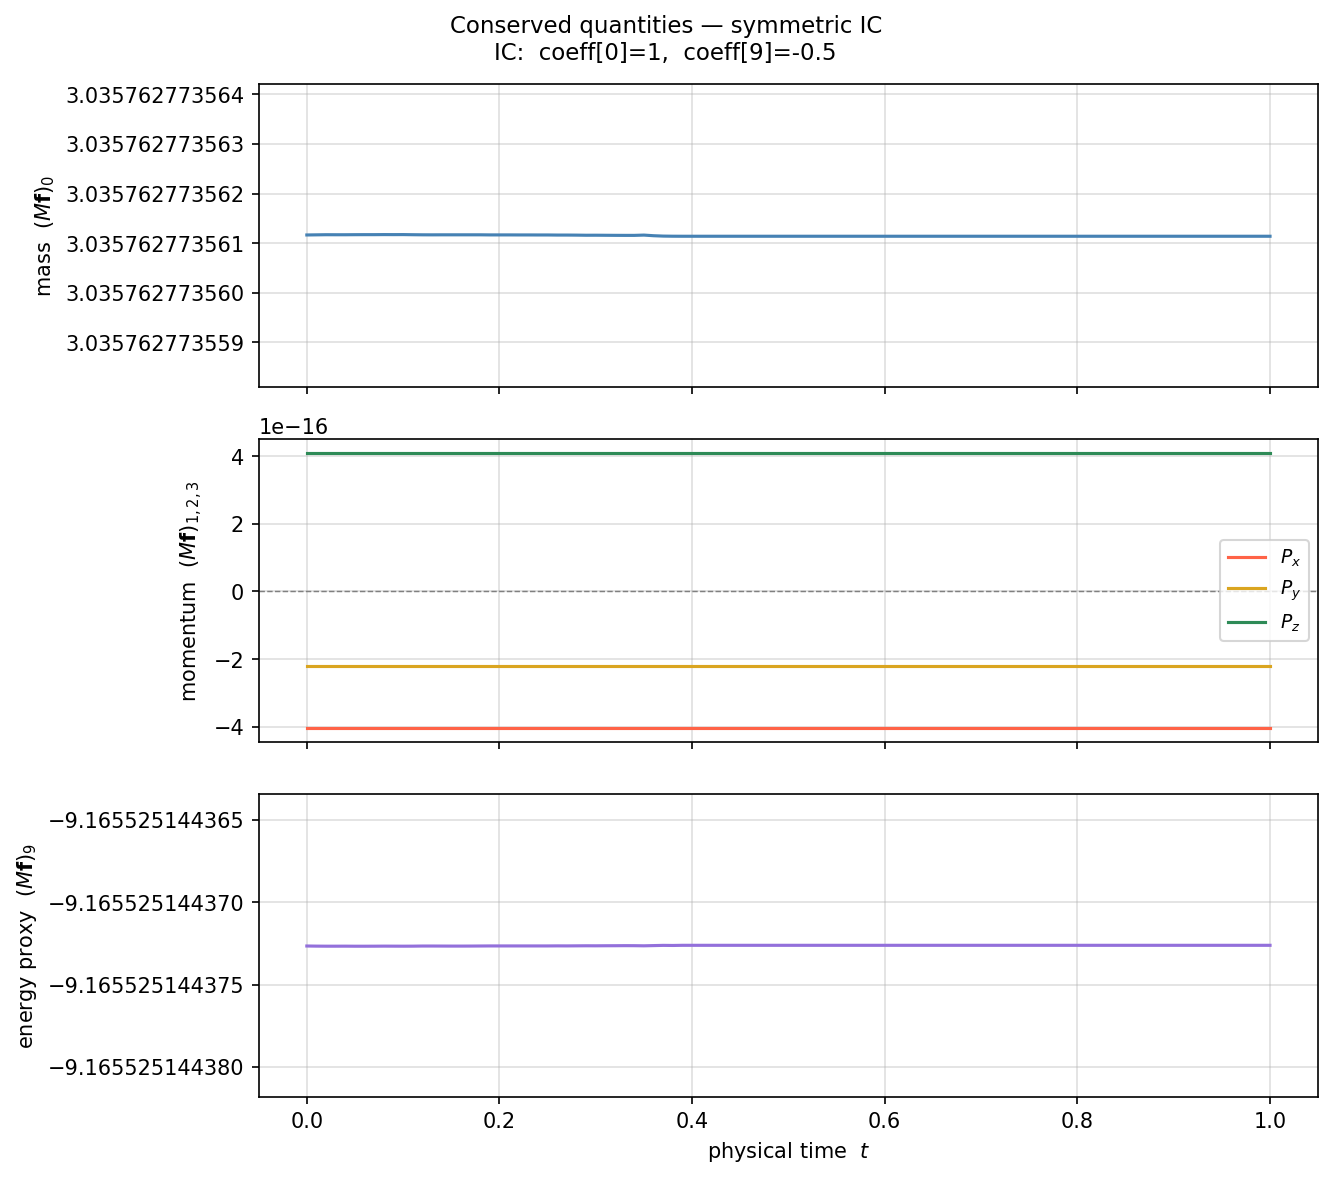
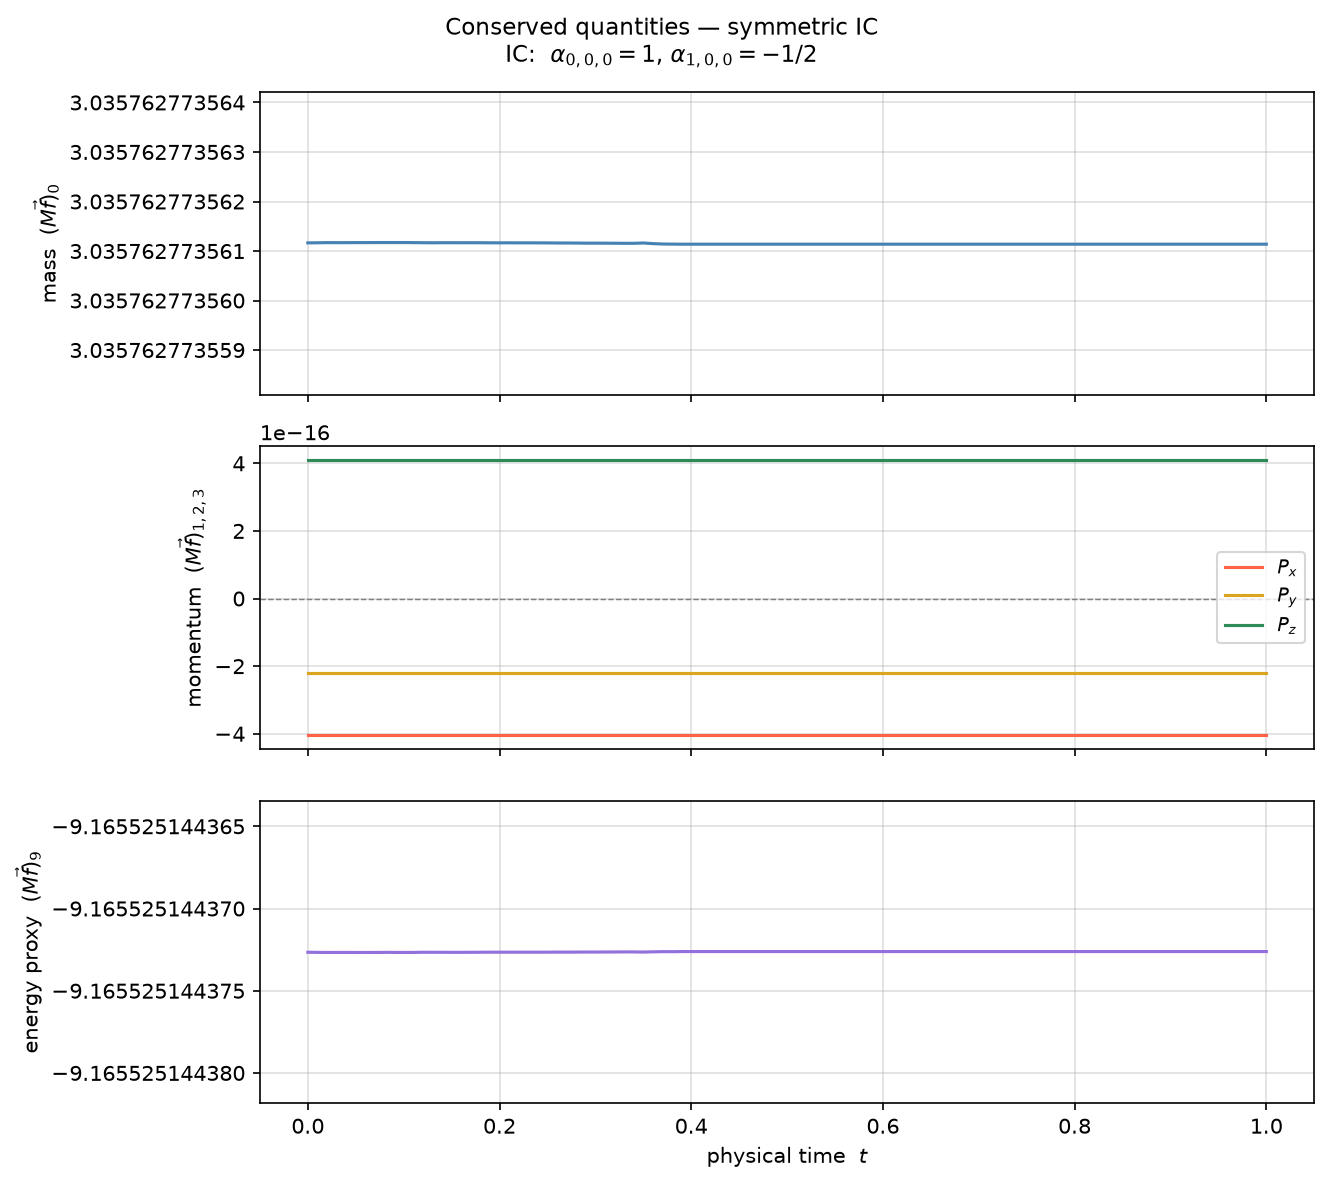
plot notation: p_x/p_z axes, alpha IC labels, vec{f} conservation; symmetric relaxation figures regenerated

diff --git a/plot/plot_conservation.py b/plot/plot_conservation.py
@@ -8,12 +8,12 @@ import os
 # ── flags ─────────────────────────────────────────────────────────────────────
 # experiment: 'symmetric' | 'asymmetric' | 'zero_momentum'
 # Must match the CSV produced by time_evol/conservation_check.py.
-experiment = 'zero_momentum'
+experiment = 'symmetric'
 
 _IC_LABELS = {
-    'symmetric':     'coeff[0]=1,  coeff[9]=-0.5',
-    'asymmetric':    'coeff[0]=1,  coeff[9]=-0.5,  coeff[2]=0.1',
-    'zero_momentum': 'coeff[0]=1,  coeff[9]=-0.5,  coeff[2]=0.1,  coeff[11]=0.0632',
+    'symmetric':     r'$\alpha_{0,0,0}=1$, $\alpha_{1,0,0}=-1/2$',
+    'asymmetric':    r'$\alpha_{0,0,0}=1$, $\alpha_{1,0,0}=-1/2$, $\alpha_{0,1,0}=0.1$',
+    'zero_momentum': r'$\alpha_{0,0,0}=1$, $\alpha_{1,0,0}=-1/2$, $\alpha_{0,1,0}=0.1$, $\alpha_{1,1,0}\approx 0.0632$',
 }
 
 save = True
@@ -34,7 +34,7 @@ fig, axes = plt.subplots(3, 1, figsize=(9, 8), sharex=True)
 
 # ── mass ──────────────────────────────────────────────────────────────────────
 axes[0].plot(t, mass, color='steelblue', linewidth=1.5)
-axes[0].set_ylabel('mass  $(M\\mathbf{f})_0$')
+axes[0].set_ylabel('mass  $(M\\vec{f})_0$')
 axes[0].grid(True, alpha=0.4)
 axes[0].ticklabel_format(useOffset=False)
 
@@ -43,14 +43,14 @@ axes[1].plot(t, px, color='tomato',    linewidth=1.5, label='$P_x$')
 axes[1].plot(t, py, color='goldenrod', linewidth=1.5, label='$P_y$')
 axes[1].plot(t, pz, color='seagreen',  linewidth=1.5, label='$P_z$')
 axes[1].axhline(0, color='gray', linewidth=0.7, linestyle='--')
-axes[1].set_ylabel('momentum  $(M\\mathbf{f})_{1,2,3}$')
+axes[1].set_ylabel('momentum  $(M\\vec{f})_{1,2,3}$')
 axes[1].legend(fontsize=9, loc='right')
 axes[1].grid(True, alpha=0.4)
 axes[1].ticklabel_format(useOffset=False)
 
 # ── energy ────────────────────────────────────────────────────────────────────
 axes[2].plot(t, energy, color='mediumpurple', linewidth=1.5)
-axes[2].set_ylabel('energy proxy  $(M\\mathbf{f})_9$')
+axes[2].set_ylabel('energy proxy  $(M\\vec{f})_9$')
 axes[2].set_xlabel('physical time  $t$')
 axes[2].grid(True, alpha=0.4)
 axes[2].ticklabel_format(useOffset=False)

diff --git a/plot/plot2d.py b/plot/plot2d.py
@@ -10,12 +10,12 @@ from naming import load_with_meta
 # ── flags ─────────────────────────────────────────────────────────────────────
 # experiment: 'symmetric' | 'asymmetric' | 'zero_momentum'
 # Set this to match ic_mode in time_evol/time_ev.py before running.
-experiment = 'zero_momentum'
+experiment = 'symmetric'
 
 _IC_LABELS = {
-    'symmetric':     'coeff[0]=1,  coeff[9]=-0.5',
-    'asymmetric':    'coeff[0]=1,  coeff[9]=-0.5,  coeff[2]=0.1',
-    'zero_momentum': 'coeff[0]=1,  coeff[9]=-0.5,  coeff[2]=0.1,  coeff[11]=0.0632',
+    'symmetric':     r'$\alpha_{0,0,0}=1$, $\alpha_{1,0,0}=-1/2$',
+    'asymmetric':    r'$\alpha_{0,0,0}=1$, $\alpha_{1,0,0}=-1/2$, $\alpha_{0,1,0}=0.1$',
+    'zero_momentum': r'$\alpha_{0,0,0}=1$, $\alpha_{1,0,0}=-1/2$, $\alpha_{0,1,0}=0.1$, $\alpha_{1,1,0}\approx 0.0632$',
 }
 _FIG_NAMES = {
     'symmetric':     './figures/relaxation_2d_xz_symmetric.png',
@@ -104,15 +104,15 @@ for ax, F, label in zip(axes_flat, panels, labels):
     im = ax.pcolormesh(xv, zv, F, cmap=cmap, vmin=vmin, vmax=vmax, shading='auto')
     ax.set_aspect('equal')
     ax.set_title(label, fontsize=10)
-    ax.set_xlabel('x')
-    ax.set_ylabel('z')
+    ax.set_xlabel(r'$p_x$')
+    ax.set_ylabel(r'$p_z$')
     ax.axhline(0, color='white', linewidth=0.5, linestyle='--', alpha=0.4)
     ax.axvline(0, color='white', linewidth=0.5, linestyle='--', alpha=0.4)
 
 for ax in axes_flat[len(steps):]:
     ax.set_visible(False)
 
-fig.colorbar(im, ax=axes_flat[len(steps) - 1], shrink=0.8, label='f(x, 0, z)')
+fig.colorbar(im, ax=axes_flat[len(steps) - 1], shrink=0.8, label=r'$f$')
 title = f'Non-relativistic relaxation — x-z plane  ($\\Delta t = {tau}$)'
 if ic_label:
     title += f'\nIC:  {ic_label}'

diff --git a/plot/plot.py b/plot/plot.py
@@ -11,12 +11,12 @@ from naming import load_with_meta
 # ── flags ─────────────────────────────────────────────────────────────────────
 # experiment: 'symmetric' | 'asymmetric' | 'zero_momentum'
 # Set this to match ic_mode in time_evol/time_ev.py before running.
-experiment = 'zero_momentum'
+experiment = 'symmetric'
 
 _IC_LABELS = {
-    'symmetric':     'coeff[0]=1,  coeff[9]=-0.5',
-    'asymmetric':    'coeff[0]=1,  coeff[9]=-0.5,  coeff[2]=0.1',
-    'zero_momentum': 'coeff[0]=1,  coeff[9]=-0.5,  coeff[2]=0.1,  coeff[11]=0.0632',
+    'symmetric':     r'$\alpha_{0,0,0}=1$, $\alpha_{1,0,0}=-1/2$',
+    'asymmetric':    r'$\alpha_{0,0,0}=1$, $\alpha_{1,0,0}=-1/2$, $\alpha_{0,1,0}=0.1$',
+    'zero_momentum': r'$\alpha_{0,0,0}=1$, $\alpha_{1,0,0}=-1/2$, $\alpha_{0,1,0}=0.1$, $\alpha_{1,1,0}\approx 0.0632$',
 }
 _FIG_NAMES_OVERLAY = {
     'symmetric':     './figures/relaxation_symmetric_overlay.png',
@@ -96,7 +96,8 @@ if mode == 'single':
     plt.plot(x, f, marker='o', markersize=3)
     plt.axhline(0, color='gray', linewidth=0.7, linestyle='--')
     plt.title(plt_name)
-    plt.xlabel('x')
+    plt.xlabel(r'$p_x$')
+    plt.ylabel(r'$f(p)$')
     plt.grid(True, alpha=0.4)
     if show: plt.show()
     if save:
@@ -141,7 +142,8 @@ elif mode == 'overlay':
         ax.plot(x, f, color=color, label=step_label(step))
 
     ax.axhline(0, color='gray', linewidth=0.7, linestyle='--')
-    ax.set_xlabel('x')
+    ax.set_xlabel(r'$p_x$')
+    ax.set_ylabel(r'$f(p)$')
     ax.legend(fontsize=9, loc='upper right')
     ax.grid(True, alpha=0.4)
     ax.set_title(f'Non-relativistic relaxation  ($\\Delta t = {tau}$)')

diff --git a/time_evol/time_ev.py b/time_evol/time_ev.py
@@ -4,7 +4,6 @@ import numpy as np
 import pickle
 from bilinear import landau
 from bilinear import update
-from lemou_ic import lemou_coefficients
 # reach the shared naming helper + quadrature-order constants in ../src
 sys.path.insert(0, '../src')
 from naming import operator_tag, mass_tag, load_with_meta
@@ -60,12 +59,14 @@ assert mass_meta['n'] == n, f"mass matrix n={mass_meta['n']} != operator n={n}"
 #   lemou         -- Villani/Lemou exact benchmark (Maxwellian molecules, isotropic);
 #                    f0 = M(v)*(1 + r^4/120 - r^2/12 + 1/8), exact analytical solution
 #                    h(t,v) = M(v)*(1 + e^{-8t}*(r^4/120 - r^2/12 + 1/8))
-ic_mode = 'lemou'
+ic_mode = 'symmetric'
 
 # ratio -C0/C1 that zeroes the discrete z-momentum
 _ZM_RATIO = 0.632456
 
 if ic_mode == 'lemou':
+    sys.path.insert(0, '../experiments/lemou_benchmark')
+    from lemou_ic import lemou_coefficients
     f = lemou_coefficients(n)
 else:
     f = np.zeros(n**3)
